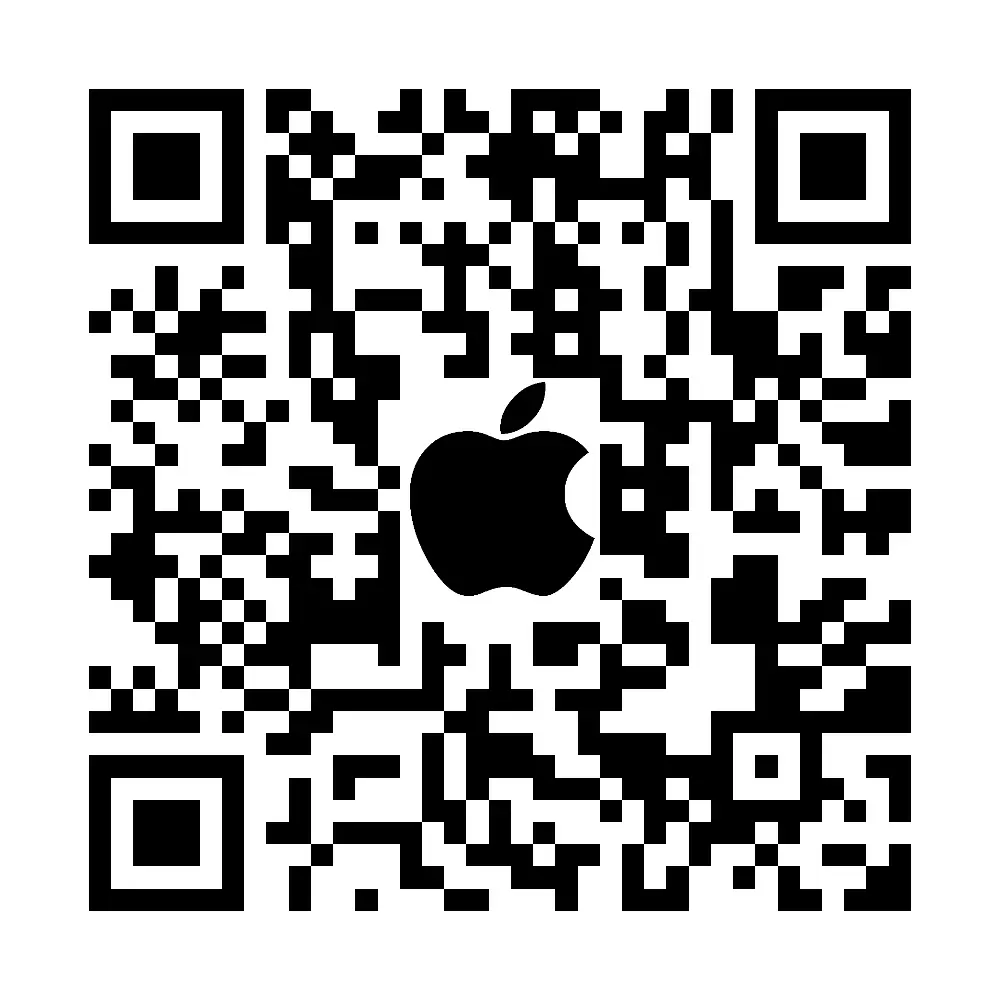
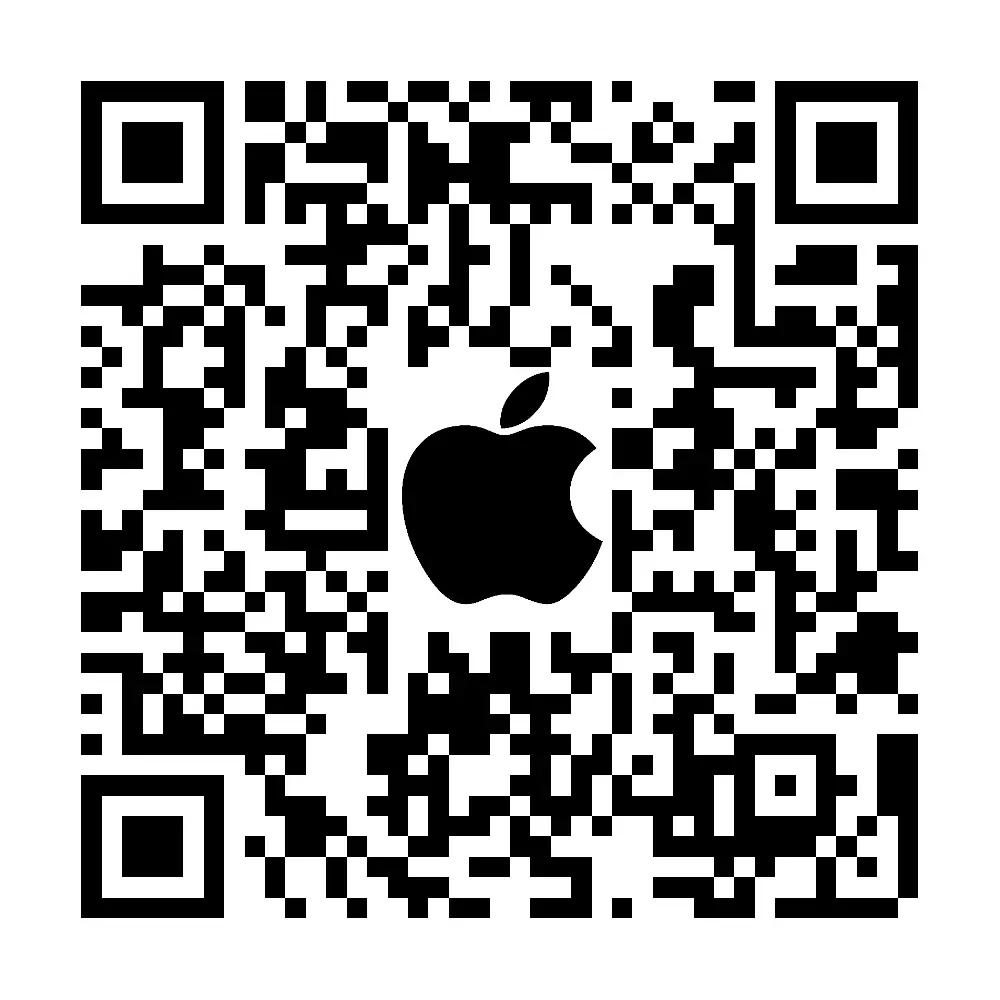
app store link updated

diff --git a/index.html b/index.html
@@ -105,9 +105,9 @@
           <svg width="21" height="21" viewBox="0 0 24 24" fill="currentColor"><path d="M17.6 9.48l1.84-3.18c.16-.31.04-.69-.26-.85a.64.64 0 00-.83.22l-1.88 3.24A10.45 10.45 0 0012 8c-1.57 0-3.06.37-4.48 1.06L5.64 5.67a.64.64 0 00-.83-.22.61.61 0 00-.26.85l1.84 3.18C3.93 10.95 2.68 13.07 2.5 15.5h19c-.18-2.43-1.43-4.55-3.9-6.02zM9 13H7v-2h2v2zm8 0h-2v-2h2v2z"/></svg>
           Télécharge l’app sur Android
         </a>
-        <a href="https://testflight.apple.com/join/1yw6tRsC" class="btn-ios">
+        <a href="https://apps.apple.com/fr/app/lokav%C3%A9lo/id6795822966" class="btn-ios">
           <svg width="21" height="21" viewBox="0 0 24 24" fill="currentColor"><path d="M17.05 20.28c-.98.95-2.05.8-3.08.35-1.09-.46-2.09-.48-3.24 0-1.44.62-2.2.44-3.06-.35C2.79 15.25 3.51 7.59 9.05 7.31c1.35.07 2.29.74 3.08.8 1.18-.24 2.31-.93 3.57-.84 1.51.12 2.65.72 3.4 1.8-3.12 1.87-2.38 5.98.48 7.13-.57 1.5-1.31 2.99-2.54 4.09l.01-.01zM12.03 7.25c-.15-2.23 1.66-4.07 3.74-4.25.29 2.58-2.34 4.5-3.74 4.25z"/></svg>
-          Teste l’app sur iPhone
+          Télécharge l’app sur iPhone
         </a>
       </div>
       <div class="scan-note">Scanne le QR code pour télécharger lʼapp selon ton appareil</div>
@@ -266,7 +266,7 @@
 		  class="store-badge"
 		>
 	  </a>
-	  <a href="https://testflight.apple.com/join/1yw6tRsC">
+	  <a href="https://apps.apple.com/fr/app/lokav%C3%A9lo/id6795822966">
 		<img
 		  src="images/get_app_ios.webp"
 		  alt="Télécharger LokaVélo sur App Store"
